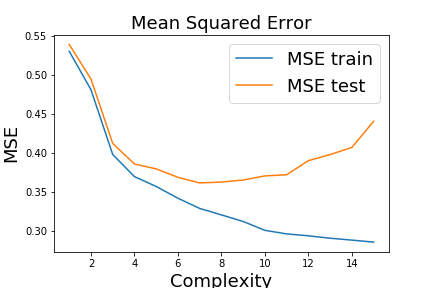
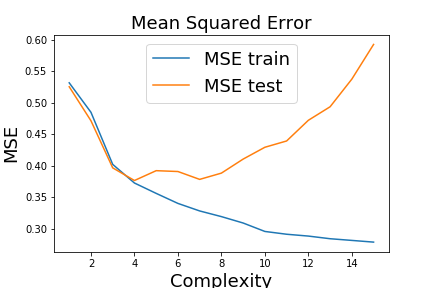
almost done with ridge/lasso, error in plot func

diff --git a/Project1/ex1.py b/Project1/ex1.py
@@ -7,6 +7,8 @@ from sklearn.preprocessing import MaxAbsScaler
 from matplotlib import cm
 from matplotlib.ticker import LinearLocator, FormatStrFormatter
 from mpl_toolkits.mplot3d import Axes3D
+from sklearn.linear_model import Lasso
+from sklearn import linear_model
 import random
 np.random.seed(2405)
 def mse(z, z_model):
@@ -35,8 +37,16 @@ def create_X(x, y, n ):
     return X
 
 
-def ols(X,z):
+def ols(X, z):
     return np.linalg.pinv(X.T @ X) @ X.T @ z
+
+def ridge(X, z, lmb):
+    return np.linalg.pinv(X.T @ X + lmb*np.identity(n)) @ X.T @ z
+
+def lasso(X, z, lmb):
+    reg = Lasso(alpha=lmb, fit_intercept=True)
+    reg.fit(X, z)
+    return np.array(reg.coef_)
 
 def predict(X, beta):
     return X @ beta
@@ -48,9 +58,37 @@ def FrankeFunction(x,y):
     term4 = -0.2*np.exp(-(9*x-4)**2 - (9*y-7)**2)
     return term1 + term2 + term3 + term4
 
+def kfold(X,z,k, plot = False):
+    #Exercise 2
+    mse_test = np.zeros((complex, k)) #for storing kfold samples' MSE for varying complexity (rows:complexity, columns:bootstrap sample)
+    mse_train = np.zeros((complex, k))
+    r2_test = np.zeros((complex, k))
+    r2_train = np.zeros((complex, k))
+    n = len(X)
+    split = int(n/k)
+    for j in range(k):
+        if j == k-1:
+            X_train = X[:j*split]
+            X_test = X[j*split:]
+            z_train = z[:j*split]
+            z_test = z[j*split:]
+        else:
+            X_train = np.concatenate((X[:(j)*split], X[(j+1)*split:]), axis = 0)
+            X_test = X[j*split:(j+1)*split]
+            z_train = np.concatenate((z[:(j)*split], z[(j+1)*split:]))
+            z_test = z[j*split:(j+1)*split]
+        tts = [X_train, X_test, z_train, z_test]
+        for i in range(complex): #looping through complexity of model
+            mse_train[i,j], r2_train[i,j], mse_test[i,j], r2_test[i,j] = evaluate_method(ols, tts, scale = True, d = i+1)
 
+    mean_mse_train = np.mean(mse_train, axis = 1) #calculating mean of MSE of all kfold samples
+    mean_mse_test = np.mean(mse_test, axis = 1)
+    mean_r2_train = np.mean(r2_train, axis = 1)
+    mean_r2_test = np.mean(r2_test, axis = 1)
+    if plot:
+        plot_mse(mean_mse_train, mean_mse_test, method_header = "k-fold")
 
-def evaluate_method(method, train_test_l, scale, d):
+def evaluate_method(method, train_test_l, d, scale = True, lmb = False):
     X_train, X_test, z_train, z_test = train_test_l
     l = int((d+1)*(d+2)/2)
     X_train = X_train[:,:l]
@@ -71,8 +109,10 @@ def evaluate_method(method, train_test_l, scale, d):
         # z_train = scaler2.transform(z_train)
         # z_test = scaler2.transform(z_test)
 
-
-    beta = method(X_train,z_train)
+    if lmb != False:
+        beta = method(X_train, z_train, lmb)
+    else:
+        beta = method(X_train,z_train)
     #print(beta.shape)
     z_tilde = predict(X_train, beta)
     z_predict = predict(X_test, beta)
@@ -92,7 +132,30 @@ def bootstrap(X,z):
     z_new = z[data]
     return X_new, z_new
 
+def plot_mse(mse_train, mse_test, method_header = '', plot_complexity = True, lambdas = False, complexities = False):
+    labelsize=18
+    degree = mse_train.shape[0]
 
+    if type(lambdas) != type(False):
+        n_lmd = len(lambdas)
+        for i in range(degree):
+            plt.plot(lambdas, mse_test[i], label = f'Complexity: {complexities[i]}')
+
+    else:
+        if plot_complexity:
+            plt.plot(range(1,degree+1), mse_train, label="MSE train")
+            plt.plot(range(1,degree+1), mse_test, label="MSE test")
+            plt.xlabel("Complexity", fontsize=labelsize)
+        else:
+            plt.plot(n_points, mse_train, label="MSE train")
+            plt.plot(n_points, mse_test, label="MSE test")
+            plt.xlabel("# Datapoints", fontsize=labelsize)
+    plt.legend(fontsize=labelsize)
+    plt.ylabel("MSE", fontsize=labelsize)
+    plt.title(f"Mean Squared Error {method_header}", fontsize=labelsize)
+    plt.savefig(f"MSE_datapoints_{method_header}.png")
+    plt.legend()
+    plt.show()
 
 
 
@@ -111,7 +174,7 @@ X = create_X(x,y,complex)
 
 test_train_l = train_test_split(X,z,test_size=0.2)
 #Exercise 1
-print(z.shape)
+
 print(f"OLS: {evaluate_method(ols, test_train_l, scale = False, d = 5)}")
 
 noise = np.random.normal(0, 1, size=(z.shape))
@@ -120,34 +183,29 @@ test_train_l_noise = train_test_split(X,z_noisy,test_size=0.2)
 print(f"OLS with noise: {evaluate_method(ols, test_train_l_noise, scale = False, d = 5)}")
 
 #Exercise 2
-n_bs = 300 #number of bootstrap cycles
+n_bs = 100 #number of bootstrap cycles
 mse_test = np.zeros((complex, n_bs)) #for storing bootstrap samples' MSE for varying complexity (rows:complexity, columns:bootstrap sample)
 mse_train = np.zeros((complex, n_bs))
 r2_test = np.zeros((complex, n_bs))
 r2_train = np.zeros((complex, n_bs))
 
 #Bootstrap and plotting MSE vs complexity
+
+tts = train_test_split(X,z_noisy,test_size=0.2)
 for j in range(n_bs): #looping through bootstrap samples
-    X_sample, z_sample = bootstrap(X,z_noisy)
-    tts = train_test_split(X_sample,z_sample,test_size=0.2)
+    X_sample, z_sample = bootstrap(tts[0],tts[2])
+    tts2 = [X_sample, tts[1], z_sample, tts[3]]
     for i in range(complex): #looping through complexity of model
-        mse_train[i,j], r2_train[i,j], mse_test[i,j], r2_test[i,j] = evaluate_method(ols, tts, scale = True, d = i+1)
+        mse_train[i,j], r2_train[i,j], mse_test[i,j], r2_test[i,j] = evaluate_method(ols, tts2, scale = True, d = i+1)
 
 mean_mse_train = np.mean(mse_train, axis = 1) #calculating mean of MSE of all bootstrap samples
 mean_mse_test = np.mean(mse_test, axis = 1)
 mean_r2_train = np.mean(r2_train, axis = 1)
 mean_r2_test = np.mean(r2_test, axis = 1)
 
-labelsize=18
-plt.plot(range(1,complex+1), mean_mse_train, label="MSE train")
-plt.plot(range(1,complex+1), mean_mse_test, label="MSE test")
-plt.legend(fontsize=labelsize)
-plt.ylabel("MSE", fontsize=labelsize)
-plt.xlabel("Complexity", fontsize=labelsize)
-plt.title("Mean Squared Error", fontsize=labelsize)
-plt.savefig("MSE_complex.png")
-plt.show()
-"""
+plot_mse(mean_mse_train, mean_mse_test, method_header = "bootstrap")
+
+
 #Bootstrap and plot MSE vs # datapoints
 n_points = np.arange(100,10001,100)
 
@@ -163,7 +221,7 @@ for i in range(len(n_points)): #looping through different sample sizes
     X_sample, z_sample = bootstrap(X_data,z_data)
     tts = train_test_split(X_sample,z_sample,test_size=0.2)
     for j in range(n_bs): #looping through different bootstrap cycles
-        mse_train_n[i,j], r2_train_n[i,j], mse_test_n[i,j], r2_test_n[i,j] = evaluate_method(ols, tts, scale = False, d = 4)
+        mse_train_n[i,j], r2_train_n[i,j], mse_test_n[i,j], r2_test_n[i,j] = evaluate_method(ols, tts, scale = True, d = 4)
 
 
 mean_mse_train_n = np.mean(mse_train_n, axis = 1) #calculating mean of MSE of all bootstrap samples
@@ -171,40 +229,24 @@ mean_mse_test_n = np.mean(mse_test_n, axis = 1)
 mean_r2_train_n = np.mean(r2_train_n, axis = 1)
 mean_r2_test_n = np.mean(r2_test_n, axis = 1)
 
-print(mean_mse_test_n)
-labelsize=18
-plt.plot(n_points, mean_mse_train_n, label="MSE train")
-plt.plot(n_points, mean_mse_test_n, label="MSE test")
-plt.legend(fontsize=labelsize)
-plt.ylabel("MSE", fontsize=labelsize)
-plt.xlabel("# Datapoints", fontsize=labelsize)
-plt.title("Mean Squared Error", fontsize=labelsize)
-plt.savefig("MSE_datapoints.png")
-plt.show()
-"""
+plot_mse(mean_mse_train_n, mean_mse_test_n, method_header = "bootstrap", plot_complexity = False)
+
+
 
 #Exercise 3, K-fold
+kfold(X, z_noisy, 5, plot = True)
 
-def kfold(X,z,k):
-    #Exercise 2
-    mse_test = np.zeros((complex, k)) #for storing bootstrap samples' MSE for varying complexity (rows:complexity, columns:bootstrap sample)
-    mse_train = np.zeros((complex, k))
-    r2_test = np.zeros((complex, k))
-    r2_train = np.zeros((complex, k))
+nlambdas = 10
+lambdas_values = [0.001,0.005,0.01,0.05,0.1,0.5]#np.logspace(-4,1,nlambdas)
+print(lambdas_values)
+compl = [2,3,4,5,6,7,8]
+mse_test_lasso = np.zeros((len(compl), len(lambdas_values)))
+mse_train_lasso = np.zeros((len(compl), len(lambdas_values)))
+r2_test_lasso = np.zeros((len(compl), len(lambdas_values)))
+r2_train_lasso = np.zeros((len(compl), len(lambdas_values)))
 
-    n = len(X)
-    split = int(n/k)
-    for j in range(k): #looping through bootstrap samples
-        if j == k-1:
-            X_test = X[j*split:]
-            X_train = X[:j*split]
-        else:
-            X_test = X[j*split:(j+1)*split]
-            X_train = np.concatenate(X[:(j)*split], X[(j+1)*split:])
-        for i in range(complex): #looping through complexity of model
-            mse_train[i,j], r2_train[i,j], mse_test[i,j], r2_test[i,j] = evaluate_method(ols, tts, scale = True, d = i+1)
-
-    mean_mse_train = np.mean(mse_train, axis = 1) #calculating mean of MSE of all bootstrap samples
-    mean_mse_test = np.mean(mse_test, axis = 1)
-    mean_r2_train = np.mean(r2_train, axis = 1)
-    mean_r2_test = np.mean(r2_test, axis = 1)
+for i in range(len(compl)):
+    for j in range(len(lambdas_values)):
+        mse_train_lasso[i,j], mse_test_lasso[i,j], r2_train_lasso[i,j], r2_test_lasso[i,j] = evaluate_method(lasso, tts, lmb = lambdas_values[j], d=compl[i])
+print(np.min(mse_test_lasso))
+plot_mse(mse_train_lasso, mse_test_lasso, method_header = 'lasso', plot_complexity = True, lambdas = lambdas_values, complexities = compl)
